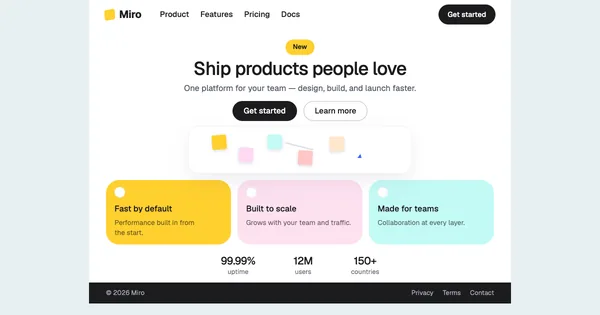
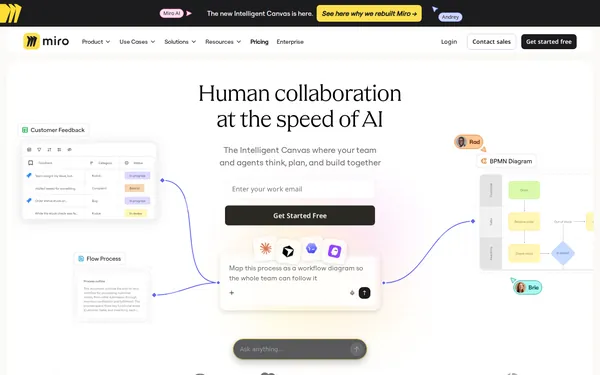
Famous sites: 15 more real screenshots, captured on GitHub's runner (69 of 74)
Mistral, xAI, HashiCorp, Figma, Miro, Coinbase, Kraken, Meta, Nike, Pinterest, SpaceX, Spotify,
Vodafone, Renault and the 1996 Dell archive, captured by the manual workflow and reviewed by eye.
SOURCE.json records the URL actually captured and the date. Still templates: Mastercard and
Tesla (blocked on the runner too), and BMW, Binance and the 2001 Nintendo archive, which the
script now retries with the global BMW site, a click on Binance's region dialog and a later
archive snapshot.

diff --git a/scripts/capture-site-screens.py b/scripts/capture-site-screens.py
@@ -54,7 +54,10 @@ URL_OVERRIDES = {
     "claude": "https://www.claude.com/",
     # Historical specs: capture the archived homepage of that era.
     "dell-1996": "https://web.archive.org/web/19961220if_/http://www.dell.com/",
-    "nintendo-2001": "https://web.archive.org/web/20010401if_/http://www.nintendo.com/",
+    "nintendo-2001": "https://web.archive.org/web/20011201if_/http://www.nintendo.com/",
+    # bmw.com sends US visitors to a bmwusa.com 404 and China visitors to bmw.com.cn; the spec
+    # reads the global site.
+    "bmw": "https://www.bmw.com/en/index.html",
 }
 
 # Only for a capture machine in mainland China (the default): these sites geo-redirect to a
@@ -70,7 +73,12 @@ REGION_OVERRIDES = {
     "ibm": "https://www.ibm.com/us-en",
     "lamborghini": "https://www.lamborghini.com/en-en",
     "mastercard": "https://www.mastercard.com/us/en.html",
-    "bmw": "https://www.bmw.com/en/index.html",
+}
+
+# Site-specific prompts to close before the screenshot (button text, exact match).
+SITE_CLOSE = {
+    # "It looks like you're in the United States. Switch to Binance.US" dialog on the runner.
+    "binance": "Close",
 }
 
 # Pages whose hero (video, carousel, client-rendered skeleton) needs longer to settle.
@@ -80,13 +88,11 @@ SLOW = {"figma", "framer", "uber", "vodafone", "runwayml", "expo", "replicate", 
 # Filled in after reviewing the contact sheets (2026-11-21). slug -> reason the template stays.
 # Sites that never loaded are not listed here; `apply` records their last error.
 REJECT = {
-    "mastercard": "blocked: Akamai 'Access Denied' page",
-    "tesla": "blocked: Akamai 'Access Denied' page",
-    "spacex": "blocked: Cloudflare error 1009, region banned",
-    "nike": "region: nike.com redirects to nike.com.cn; nike.com/us/ returned a 404 page",
-    "bmw": "region: bmw.com did not resolve; only the China site bmw.com.cn opened",
-    "vodafone": "blank: page rendered only the logo; later attempts failed DNS",
-    "figma": "incomplete: hero carousel images never loaded (grey placeholders)",
+    "mastercard": "blocked: Akamai 'Access Denied' locally and on the GitHub runner (2026-11-22)",
+    "tesla": "blocked: Akamai 'Access Denied' locally and on the GitHub runner (2026-11-22)",
+    "bmw": "region: bmw.com -> bmw.com.cn locally, -> a bmwusa.com 404 on the runner; global URL pending",
+    "binance": "obscured: 'switch to Binance.US' dialog on the runner; retry closes it",
+    "nintendo-2001": "archive: the 2001-04 snapshot lost its imagemap; retry with 2001-12",
 }
 
 COOKIE_TEXT = re.compile(
@@ -176,7 +182,7 @@ async def capture_one(browser, site, sem, log):
             )
             page = await context.new_page()
             try:
-                resp, clicked = await asyncio.wait_for(load_page(page, site["url"], out, site["slug"] in SLOW), SITE_BUDGET_S)
+                resp, clicked = await asyncio.wait_for(load_page(page, site["url"], out, site["slug"] in SLOW, SITE_CLOSE.get(site["slug"])), SITE_BUDGET_S)
                 log[site["slug"]] = {
                     "url": site["url"], "finalUrl": page.url,
                     "status": resp.status if resp else None, "cookieClicked": clicked,
@@ -195,7 +201,7 @@ async def capture_one(browser, site, sem, log):
                 write_log(log)
 
 
-async def load_page(page, url, out, slow=False):
+async def load_page(page, url, out, slow=False, close=None):
     """goto + settle + cookie click + screenshot; the caller caps the whole thing."""
     resp = await page.goto(url, wait_until="domcontentloaded", timeout=TIMEOUT_MS)
     try:
@@ -204,6 +210,12 @@ async def load_page(page, url, out, slow=False):
         pass
     await page.wait_for_timeout(SLOW_SETTLE_MS if slow else 1500)
     clicked = await dismiss_cookies(page)
+    if close:
+        try:
+            await page.get_by_role("button", name=close, exact=True).first.click(timeout=3000)
+            clicked = True
+        except Exception:
+            pass
     await page.wait_for_timeout(2500 if clicked else 1500)
     # Banners with no clickable consent button: hide fixed overlays that talk about cookies.
     try:
@@ -287,7 +299,8 @@ def apply():
         slug, dest = site["slug"], THUMBS / f'site-{site["slug"]}.webp'
         before += dest.stat().st_size if dest.exists() else 0
         raw = CACHE / f"{slug}.png"
-        entry = {"url": site["url"], "capturedOn": CAPTURED_ON}
+        # The URL actually captured (the runner uses official links, the local machine US pins).
+        entry = {"url": log.get(slug, {}).get("url", site["url"]), "capturedOn": log.get(slug, {}).get("capturedOn", CAPTURED_ON)}
         reason = REJECT.get(slug)
         if not reason and not raw.exists():
             reason = "capture failed: " + log.get(slug, {}).get("error", "no capture")
@@ -302,7 +315,7 @@ def apply():
     shots = sum(1 for r in records.values() if r["status"] == "screenshot")
     SOURCE.write_text(json.dumps({
         "description": "Card previews for /sites/. 'screenshot' = first screen of the site's real homepage "
-                       "(1440x900 viewport, scaled to 600px wide, top-aligned crop to 600x315). "
+                       "(1440x900 viewport, scaled to 600x375; cards crop from the bottom). "
                        "'template-fallback' = brand-style mock rendered by scripts/gen-site-previews.py. "
                        "Screenshot rights belong to each website.",
         "generator": "scripts/capture-site-screens.py",
